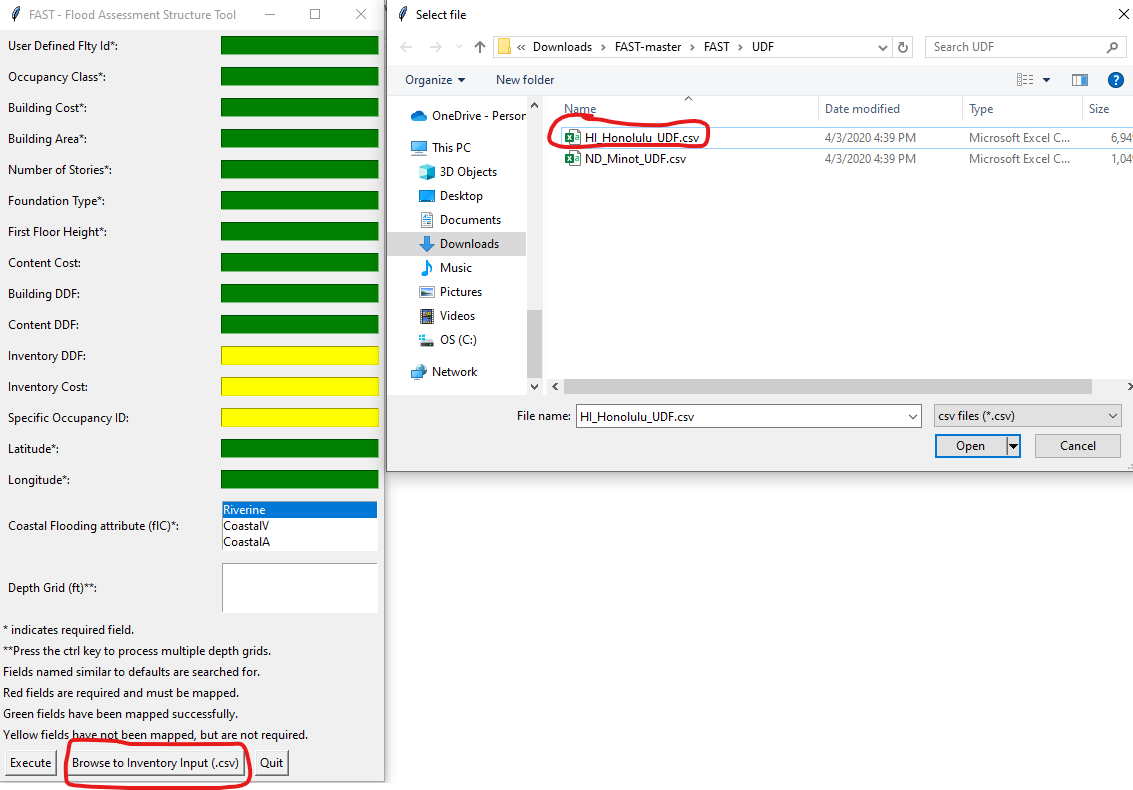
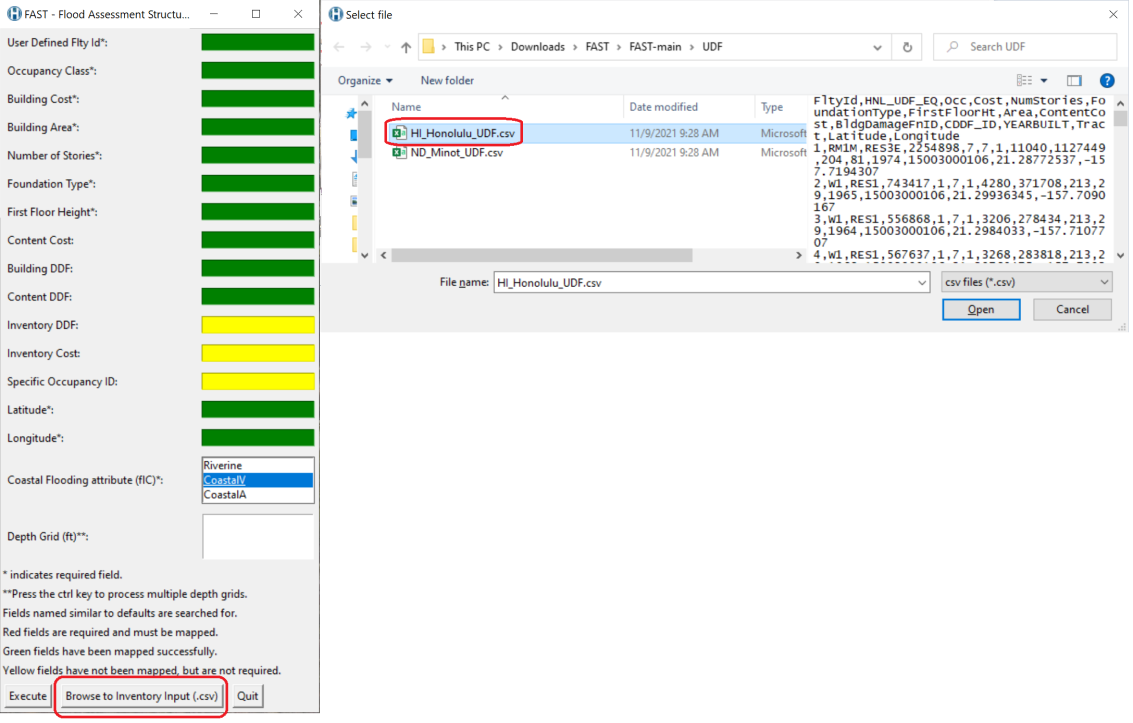
fix: update readme (#19)
* fix: change hand drawn red circles to computer generated red ovals

* fix: modify requirements and troubleshooting for miniforge install

Provide link to environment-setup repo that has install and uninstall instructions.

* fix: feedback from Doug

* fix: remove unused images

* fix: move contact to bottom

* fix: update TM link

* docs: Apply PR feedback

diff --git a/README.md b/README.md
@@ -1,42 +1,22 @@
 # Hazus Flood Assessment Structure Tool
 
-The Hazus Flood Assessment Structure Tool (FAST) calculates building-level flood impacts with user-provided building and flood depth data. FAST uses the Hazus Flood model methodology to assign depth damage functions to buildings according to their occupancy type, first floor elevation, foundation type, and number of stories. Flood depth is then extracted at every building and used as a depth damage function parameter to calculate flood losses in dollars. Flood-generated debris is estimated using building area in square feet. For more information about how FAST cacluates flood impacts, please refer to the Hazus Flood Technical Manual: https://www.fema.gov/media-library-data/20130726-1820-25045-8292/hzmh2_1_fl_tm.pdf
+The Hazus Flood Assessment Structure Tool (FAST) calculates building-level flood impacts with user-provided building and flood depth data. FAST uses the Hazus Flood model methodology to assign depth damage functions to buildings according to their occupancy type, first floor elevation, foundation type, and number of stories. Flood depth is then extracted at every building and used as a depth damage function parameter to calculate flood losses in dollars. Flood-generated debris is estimated using building area in square feet. Please refer to the [Hazus Flood Technical Manual](https://www.fema.gov/sites/default/files/2020-09/fema_hazus_flood-model_technical-manual_2.1.pdf) for more information about how FAST calculates flood impacts.
 
 Building data must be formatted as a .csv file according to the specifications outlined here: https://github.com/nhrap-hazus/FAST/blob/master/Help/FASTBuildingData.pdf Flood depth data must be formatted as a .tiff raster. Sample building data for Honolulu, HI are included in the "UDF" folder.
 
-FAST is developed using the Hazus Python Package, HazPy. HazPy tools automatically check for updates each time they are opened. Hazus Python Package documentation is found here: https://github.com/nhrap-hazus/hazus. The Hazus Team would like to thank the Oregon Department of Geology and Mineral Industries for developing an early version of this tool: https://www.oregongeology.org/pubs/ofr/O-18-04/O-18-04_user_guide.pdf
+FAST is developed using the Hazus Python Package. The tool automatically checks for updates each time it runs. The Hazus Team would like to thank the Oregon Department of Geology and Mineral Industries for developing an early version of this tool: https://www.oregongeology.org/pubs/ofr/O-18-04/O-18-04_user_guide.pdf
 
 ## Requirements
 
-The Flood Assessment Structure Tool requires Anaconda to be installed on your computer. Anaconda is a free software that automatically manages all Python packages required to run Hazus open source tools - including the Hazus Python package: https://fema-ftp-snapshot.s3.amazonaws.com/Hazus/hazpy/build/html/index.html **Please note that FAST is not compatible with the Export Tool at this time. If you have the Export Tool installed on your machine, please remove it before downloading and installing FAST**
-
-1. Go to https://github.com/conda-forge/miniforge/#download
-
-2. Download Minforge3 for your operating system
-
-3. Complete the installation. During installation, make sure the following options are checked:
-
-   - [x] Add conda to my PATH environment variable
-   - [x] Register conda as my default Python
-   - [x] Install conda for local user, rather than all users
-   
-FAST will automatically check for HazPy updates each time it is opened. If you experience errors during this process, please try uninstalling Anaconda and reinstalling the latest version.
+The Flood Assessment Structure Tool requires conda be installed on your computer. Follow the [README](https://github.com/nhrap-dev/Environment-Setup/tree/update-README) to setup your machine with miniforge and conda before running FAST
  
 ## Documentation
 
 Please see the Help folder for building data guidance, FAST case study information (coming soon), and a brief video demonstration of FAST: https://github.com/nhrap-hazus/FAST/tree/master/Help
 
-## Contact
-
-Check out the [Troubleshooting](#troubleshooting) section below for help operating FAST.
-
-Issues can be reported through the repository on Github: https://github.com/nhrap-dev/FAST/issues
-
-For questions contact the Hazus Team at fema-hazus-support@fema.dhs.gov.
-
 ## To Use
 
-Follow the steps below to run FAST. To ensure .py files run when double-clicked, right-click the .py file and go to Properties. Under the "General" tab next to "Opens With", make sure "python.exe" is selected. If not, click "Change" and select "python.exe" from your Python installation directory.
+Follow the steps below to run FAST.
 
 **1. Download zip folder from GitHub, unzip.**
 
@@ -69,23 +49,16 @@ To customize the damage functions used by FAST to calculate losses, review these
 
 Please reach out to the Hazus Team any time for help troubleshooting tool issues at fema-hazus-support@fema.dhs.gov.
 
-Hazus open source tools use a centrally managed Python environment added to your machine upon installation. If you downloaded and installed FAST prior to 2021, you may need to delete your old Python environment - called "hazus_env". If you're having issues opening FAST or if the version number in your "src/__init__.py" file reads '0.0.5' or older, try one of the two options below to delete your old Python environment:
+Install and Uninstall directions can be found [here](https://github.com/nhrap-dev/Environment-Setup/tree/update-README).
+
+**For FAST versions 0.0.7 and below**
+These versions use Anaconda for the Python environment. It is recommended to update to the latest tool version by uninstalling Anaconda and installing Miniforge and Conda and then downloading the latest version of the tool. Refer to the instructions [here](https://github.com/nhrap-dev/Environment-Setup/tree/update-README) to perform the uninstall.
 
 
-**Using Anaconda:**
-1. Delete FAST from your machine.
-2. Open Anaconda.
-3. Select the 'hazus_env'.
-4. Click the 'Remove' button.
-5. A popup will appear asking you to confirm. Click the 'Remove' button. This may take a few minutes.
-6. Download the latest FAST and it will create the hazus_env and install hazpy.
-![Anaconda Remove Environment](Images/AnacondaRemoveEnv.jpg "Anaconda Remove hazus_env")
+## Contact
 
-**Using Command Line:**
-1. Delete FAST from your machine.
-2. Open a command line prompt
-3. Enter the following without qoutes 'conda info --envs' to see your environments. 'hazus_env' should be listed.
-4. Enter the following without quotes 'conda env remove --name hazus_env' to remove the environment. This may take a few minutes.
-5. Enter the following without qoutes 'conda info --envs' to see your environments again and hazus_env should not be listed.
-6. Download the latest FAST and it will create the hazus_env and install hazpy.
-![Command Line Remove Environment](Images/CommandLineRemoveEnv.jpg "Command Line Remove hazus_env")
+Check out the [Troubleshooting](#troubleshooting) section below for help operating FAST.
+
+Issues can be reported through the repository on GitHub: https://github.com/nhrap-hazus/FAST/issues
+
+For questions: contact the Hazus Team at fema-hazus-support@fema.dhs.gov.
